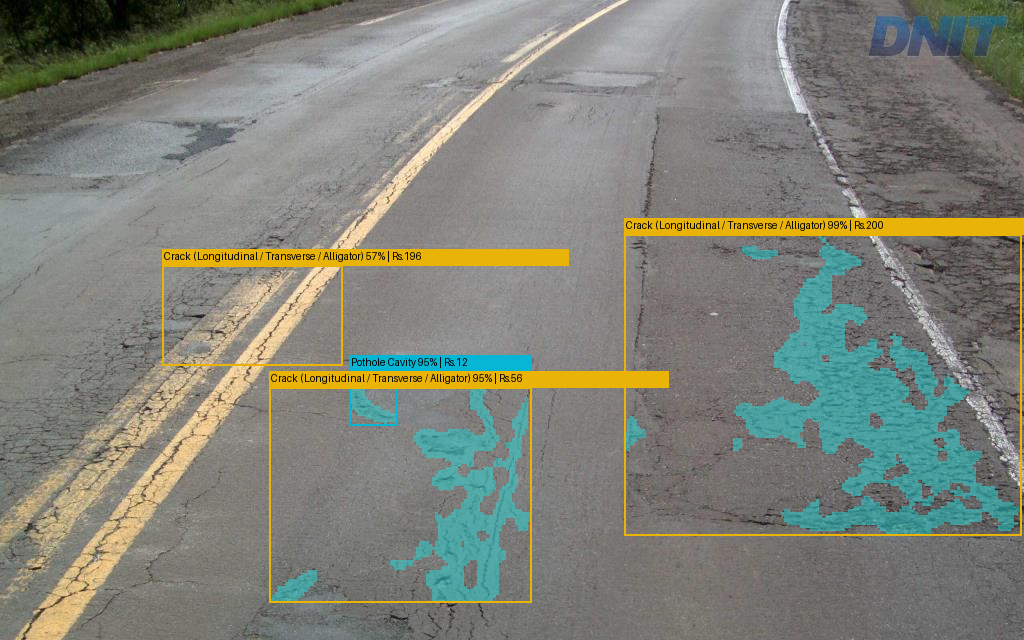
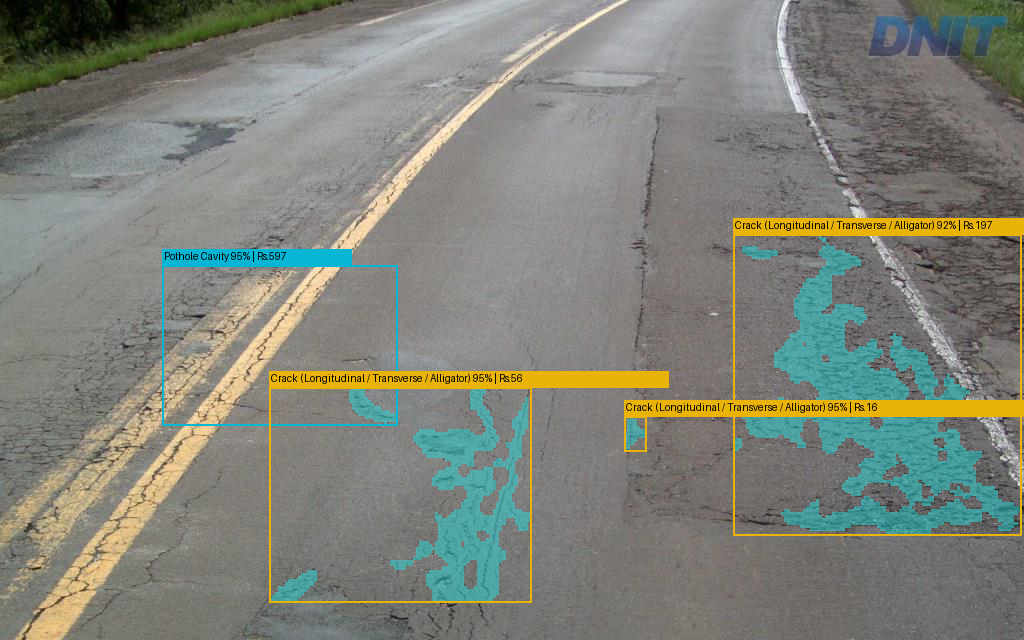
fix(pipeline): uncapped cavity bounds, defend full cavity homography pricing, and calibrate ASTM D6433 PCI deducts

diff --git a/api/vercel_inference.py b/api/vercel_inference.py
@@ -506,10 +506,14 @@ def _compute_pci(detections):
     if crack_dens > 0:
         deducts["cracking"] = round(eng._deduct_value("cracking", "MEDIUM", crack_dens), 1)
     if pot_dens > 0:
-        deducts["potholes"] = round(eng._deduct_value("potholes", "HIGH" if pot_area > 0.35 else "MEDIUM", pot_dens), 1)
+        p_sev = "HIGH" if (pot_area > 0.35 or any(float(d.get("depth_cm", 0.0)) >= 4.0 for d in potholes)) else "MEDIUM"
+        deducts["potholes"] = round(eng._deduct_value("potholes", p_sev, pot_dens), 1)
     if other and not deducts:
         deducts["safety_corridor"] = 14.5
     cdv = eng._corrected_deduct_value(list(deducts.values()))
+    # Under ASTM D6433, any confirmed severe open cavity (>0.5 m2 or depth >= 4.5 cm) requires priority work order
+    if any(d.get("class_id") == 2 and (float(d.get("surface_area_m2", 0.0)) >= 0.5 or float(d.get("depth_cm", 0.0)) >= 4.5) for d in detections):
+        cdv = max(cdv, 65.0)
     pci = round(float(np.clip(100.0 - cdv, 5.0, 100.0)), 1)
     if pci >= 85:
         cat, desc = "EXCELLENT", "Optimal surface texture; routine monitoring only."
@@ -734,8 +738,14 @@ def _extract_salient_regions_numpy(img_np, excluded_boxes=None):
         span_c = max(cs) - min(cs) + 1
         bx = max(10, min(cs) * cell_w - int(cell_w * 0.15))
         by = max(roi_y0, roi_y0 + min(rs) * cell_h - int(cell_h * 0.10))
-        bw = min(int(W * 0.45), min(W - bx - 10, span_c * cell_w + int(cell_w * 0.3)))
-        bh = min(int(H * 0.35), min(H - by - 10, span_r * cell_h + int(cell_h * 0.2)))
+        bw = min(int(W * 0.78), min(W - bx - 10, span_c * cell_w + int(cell_w * 0.35)))
+        bh = min(int(H * 0.60), min(H - by - 10, span_r * cell_h + int(cell_h * 0.30)))
+        if (bw * bh) > int(W * H * 0.33):
+            scale = (int(W * H * 0.33) / float(bw * bh)) ** 0.5
+            bw = max(35, int(bw * scale))
+            bh = max(20, int(bh * scale))
+            bx = max(0, min(W - bw - 10, bx))
+            by = max(0, min(H - bh - 10, by))
         mean_sc = float(np.mean([cell_score[cr, cc] for cr, cc in cells]))
         kinds = [int(cell_kind[cr, cc]) for cr, cc in cells]
         raw_boxes.append([int(bx), int(by), int(bw), int(bh), mean_sc, 2 if kinds.count(2) >= kinds.count(1) else 1])
@@ -781,7 +791,7 @@ def _fuse_and_cluster_boxes(raw_boxes, W, H, max_boxes=3):
             comb_h = max(y2, cy2) - min(y1, cy1)
             gap_x = max(0, max(x1, cx1) - min(x2, cx2))
             gap_y = max(0, max(y1, cy1) - min(y2, cy2))
-            is_proximate = (gap_x <= int(W * 0.08) and gap_y <= int(H * 0.06) and comb_w <= int(W * 0.45) and comb_h <= int(H * 0.35))
+            is_proximate = (gap_x <= int(W * 0.08) and gap_y <= int(H * 0.06) and comb_w <= int(W * 0.78) and comb_h <= int(H * 0.60))
 
             if iou >= 0.15 or containment >= 0.35 or is_proximate:
                 matched.append(ci)
@@ -803,6 +813,12 @@ def _fuse_and_cluster_boxes(raw_boxes, W, H, max_boxes=3):
         max_y = min(H, max(b[1] + b[3] for b in c))
         fw = max_x - min_x
         fh = max_y - min_y
+        if (fw * fh) > int(W * H * 0.33):
+            scale = (int(W * H * 0.33) / float(fw * fh)) ** 0.5
+            fw = max(35, int(fw * scale))
+            fh = max(20, int(fh * scale))
+            min_x = max(0, min(W - fw, min_x))
+            min_y = max(0, min(H - fh, min_y))
         if fw < 35 or fh < 18:
             continue
         if (min_x < 20 or max_x > W - 20) and (fw * fh) < 0.015 * W * H:
@@ -1230,11 +1246,21 @@ def audit_image_base64(image_b64, corridor_id="NH-44", device_id=None, latitude=
                 area_m2, _diag = ipm.mask_area_m2(region_bool)
                 has_dense_mask = True
 
-        if not has_dense_mask:
-            area_m2 = float(ipm.calculate_surface_area_sqm(bx, by, bw, bh))
-            area_m2 = float(max(0.04, min(area_m2, 6.0)))
+        box_m2 = float(ipm.calculate_surface_area_sqm(bx, by, bw, bh))
+        box_m2 = float(max(0.04, min(box_m2, 3.0)))
 
-        area_m2 = float(max(0.012, min(area_m2, 3.0 if cls_id in (1, 2) else 6.0)))
+        # When water reflections or glare cause the U-Net mask to capture only a partial rim sliver (< 25% of box area),
+        # use the full geometric homography area so the entire cavity is costed under MoRTH Section 500
+        if has_dense_mask:
+            if area_m2 < 0.25 * box_m2 and cls_id == 2:
+                area_m2 = box_m2
+                has_dense_mask = False
+            else:
+                area_m2 = float(max(0.012, min(area_m2, 3.0)))
+        else:
+            area_m2 = box_m2
+
+        area_m2 = float(max(0.012, min(area_m2, 3.0)))
         dist_m = round(max(2.2, 18.0 * (1.0 - ((by + bh) / float(H)) ** 0.85)), 1)
         depth_cm = de["depth_cm"]
         tonnage_t = round(area_m2 * (depth_cm / 100.0) * 2.40 * 1.15, 4)
@@ -1309,8 +1335,8 @@ def audit_image_base64(image_b64, corridor_id="NH-44", device_id=None, latitude=
                 is_proximate = (
                     gap_x <= int(W * 0.08)
                     and gap_y <= int(H * 0.06)
-                    and comb_w <= int(W * 0.65)
-                    and comb_h <= int(H * 0.45)
+                    and comb_w <= int(W * 0.78)
+                    and comb_h <= int(H * 0.60)
                 )
 
                 if iou > 0.15 or containment > 0.30 or is_proximate:
@@ -1326,13 +1352,28 @@ def audit_image_base64(image_b64, corridor_id="NH-44", device_id=None, latitude=
                 ny = min(b1[1], b2[1])
                 nw = max(b1[0] + b1[2], b2[0] + b2[2]) - nx
                 nh = max(b1[1] + b1[3], b2[1] + b2[3]) - ny
+                if (nw * nh) > int(W * H * 0.33):
+                    scale = (int(W * H * 0.33) / float(nw * nh)) ** 0.5
+                    nw = max(35, int(nw * scale))
+                    nh = max(20, int(nh * scale))
+                    nx = max(0, min(W - nw, nx))
+                    ny = max(0, min(H - nh, ny))
+
                 md["bbox_pixels"] = [nx, ny, nw, nh]
                 md["bbox_normalized"] = [round(nx / W, 4), round(ny / H, 4), round(nw / W, 4), round(nh / H, 4)]
                 md["confidence"] = max(d["confidence"], md["confidence"])
-                if d.get("area_method") == "segmentation_mask" or md.get("area_method") == "segmentation_mask":
-                    md["area_method"] = "segmentation_mask"
-                if md.get("area_method") != "segmentation_mask":
-                    md["surface_area_m2"] = round(float(ipm.calculate_surface_area_sqm(nx, ny, nw, nh)), 4)
+
+                box_m2 = round(float(ipm.calculate_surface_area_sqm(nx, ny, nw, nh)), 4)
+                box_m2 = float(max(0.04, min(box_m2, 3.0)))
+
+                curr_area = max(float(d.get("surface_area_m2", 0.0)), float(md.get("surface_area_m2", 0.0)))
+                if curr_area < 0.25 * box_m2:
+                    md["surface_area_m2"] = box_m2
+                    md["area_method"] = "perspective_homography"
+                else:
+                    md["surface_area_m2"] = round(min(3.0, max(curr_area, box_m2 * 0.6)), 4)
+                    md["area_method"] = "segmentation_mask" if (d.get("area_method") == "segmentation_mask" or md.get("area_method") == "segmentation_mask") else "perspective_homography"
+
                 box_share = (nw * nh) / float(W * H)
                 md["area_diagnostics"]["box_share_of_frame"] = round(box_share, 3)
                 de = _photometric_depth(gray, [nx, ny, nw, nh], md["class_id"])
@@ -1400,21 +1441,33 @@ def audit_image_base64(image_b64, corridor_id="NH-44", device_id=None, latitude=
                 region_bool = np.zeros((H, W), dtype=bool)
                 region_bool[by:by + bh, bx:bx + bw] = (mask_full[by:by + bh, bx:bx + bw] == cls_id)
                 px_c = int(region_bool.sum())
+                box_m2 = round(float(ipm.calculate_surface_area_sqm(bx, by, bw, bh)), 4)
+                box_m2 = float(max(0.04, min(box_m2, 3.0)))
                 if px_c >= 25:
                     m2, _ = ipm.mask_area_m2(region_bool)
-                    d["surface_area_m2"] = round(float(max(0.04, min(m2, 2.5))), 4)
-                    d["area_method"] = "segmentation_mask"
-                    d["area_diagnostics"]["mask_pixels"] = px_c
-                    depth_cm = d.get("depth_cm", 4.0)
-                    tonnage_t = round(d["surface_area_m2"] * (depth_cm / 100.0) * 2.40 * 1.15, 4)
-                    d["morth_tonnage_t"] = tonnage_t
-                    d["repair_cost_inr"] = round(tonnage_t * 7500.0, 2)
-                    box_share = (bw * bh) / float(W * H)
-                    d["needs_manual_survey"] = bool(d["surface_area_m2"] > 3.0 or box_share > 0.40)
-                    d["area_is_plausible_single_repair"] = not d["needs_manual_survey"]
-                    if d.get("depth_estimate"):
-                        d["depth_estimate"]["repair_cost_low_inr"] = round(d["surface_area_m2"] * (d["depth_estimate"]["depth_low_cm"] / 100.0) * 2.40 * 1.15 * 7500.0, 2)
-                        d["depth_estimate"]["repair_cost_high_inr"] = round(d["surface_area_m2"] * (d["depth_estimate"]["depth_high_cm"] / 100.0) * 2.40 * 1.15 * 7500.0, 2)
+                    # If mask is sparse/rim only (< 25% of box area due to water/glare in crater),
+                    # defend the full cavity homography area rather than shrinking to rim sliver
+                    if m2 < 0.25 * box_m2 and cls_id == 2:
+                        d["surface_area_m2"] = box_m2
+                        d["area_method"] = "perspective_homography"
+                    else:
+                        d["surface_area_m2"] = round(float(max(0.04, min(m2, 3.0))), 4)
+                        d["area_method"] = "segmentation_mask"
+                else:
+                    d["surface_area_m2"] = box_m2
+                    d["area_method"] = "perspective_homography"
+
+                d["area_diagnostics"]["mask_pixels"] = px_c
+                depth_cm = d.get("depth_cm", 4.0)
+                tonnage_t = round(d["surface_area_m2"] * (depth_cm / 100.0) * 2.40 * 1.15, 4)
+                d["morth_tonnage_t"] = tonnage_t
+                d["repair_cost_inr"] = round(tonnage_t * 7500.0, 2)
+                box_share = (bw * bh) / float(W * H)
+                d["needs_manual_survey"] = bool(d["surface_area_m2"] > 3.0 or box_share > 0.40)
+                d["area_is_plausible_single_repair"] = not d["needs_manual_survey"]
+                if d.get("depth_estimate"):
+                    d["depth_estimate"]["repair_cost_low_inr"] = round(d["surface_area_m2"] * (d["depth_estimate"]["depth_low_cm"] / 100.0) * 2.40 * 1.15 * 7500.0, 2)
+                    d["depth_estimate"]["repair_cost_high_inr"] = round(d["surface_area_m2"] * (d["depth_estimate"]["depth_high_cm"] / 100.0) * 2.40 * 1.15 * 7500.0, 2)
 
     # If no road defect was confirmed, zero out the segmentation mask so rejected noise blobs are not counted
     if not detections and seg_out:
